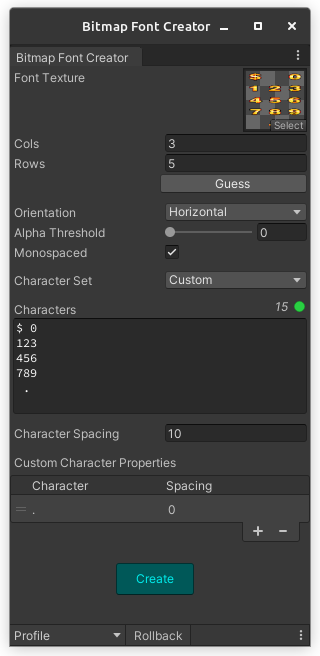
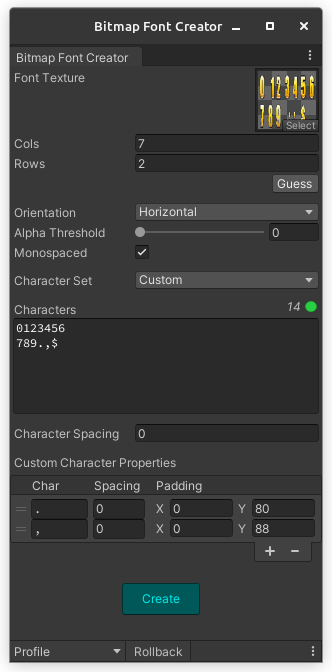
Documentation updated

diff --git a/README.md b/README.md
@@ -25,7 +25,10 @@ Settings can be saved to [profiles](#profiles) and retrieved to be used later.
 -  **Character Set**: Predefined character set to use. This is not saved to the profile.
 -  **Characters**: Characters used in the font in order they appear in the texture. Use the space character to represent blank spaces in the texture. You can break lines as much as you need to make it easier to add the character according to the texture.
 -  **Default Character Spacing**: Default spacing between characters.
--  **Custom Character Properties**: Custom properties for each characters, if any. For now the only custom property is the spacing.
+-  **Custom Character Properties**: Custom properties for each characters, if any.
+   -  **Char**: Character to apply the properties.
+   -  **Spacing**: Horizontal spacing after the character (advance). Ignored if font is monospaced.
+   -  **Padding**: Custom horizontal and vertical padding to add before the character.
 
 ## Preferences
 
